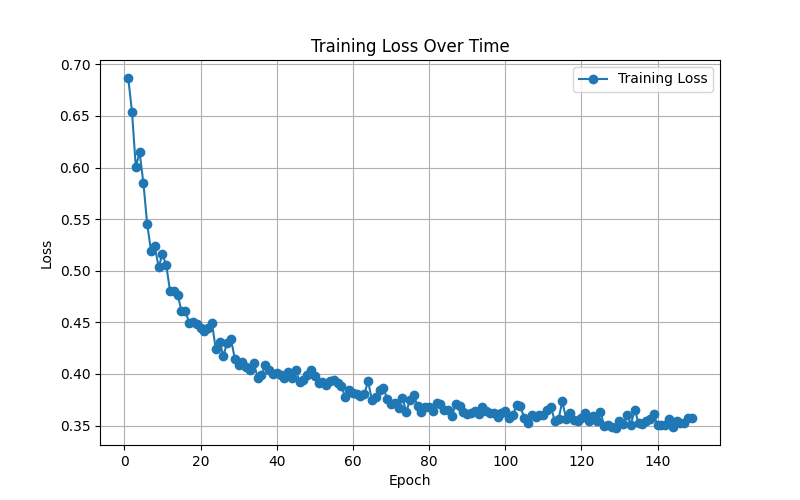
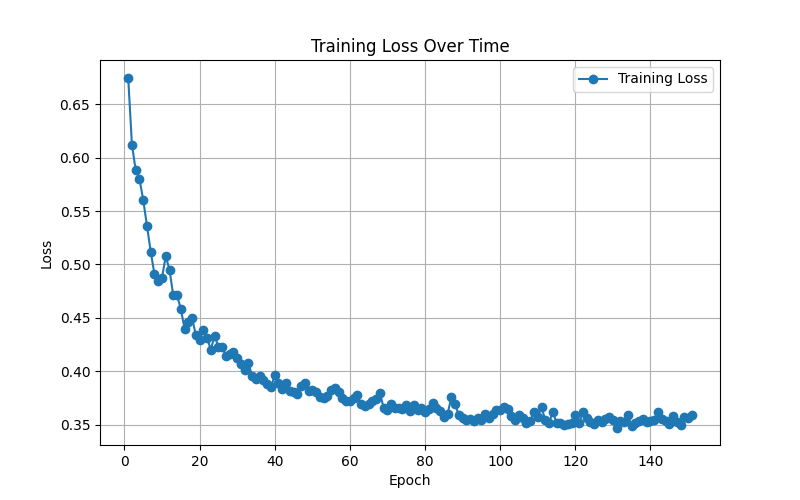
Update

diff --git a/test_model.py b/test_model.py
@@ -41,11 +41,13 @@ def evaluate_model(model, test_loader, device):
     # Compute Sensitivity (Recall) and Specificity
     sensitivity = TP / (TP + FN) if (TP + FN) > 0 else 0
     specificity = TN / (TN + FP) if (TN + FP) > 0 else 0
+    # Compute Accuracy
+    accuracy = (TP + TN) / (TP + TN + FP + FN) if (TP + TN + FP + FN) > 0 else 0
 
     print(f"Sensitivity (Recall): {sensitivity:.4f}")
     print(f"Specificity: {specificity:.4f}")
 
-    return sensitivity, specificity
+    return sensitivity, specificity, accuracy
 
 if __name__ == "__main__":
     device = torch.device("cuda" if torch.cuda.is_available() else "cpu")
@@ -61,6 +63,7 @@ if __name__ == "__main__":
     # Load best model checkpoint
     if os.path.exists(CHECKPOINT_PATH):
         model = load_model(CHECKPOINT_PATH, H_in, W_in, device)
-        sensitivity, specificity = evaluate_model(model, test_loader, device)
+        sensitivity, specificity, accuracy = evaluate_model(model, test_loader, device)
+        print("sensitivity, specificity, accuracy: ", sensitivity, specificity, accuracy)
     else:
         print(f"Checkpoint not found at {CHECKPOINT_PATH}")

diff --git a/preprocess.py b/preprocess.py
@@ -3,7 +3,7 @@ import numpy as np
 import os
 from sklearn.model_selection import train_test_split
 from scipy.signal import filtfilt, ellip
-from hr_analysis import classify_af
+
 
 def bandpass_filter(ecg_signal, fs, lowcut=0.5, highcut=50, order=10):
     """Apply an elliptical band-pass filter to the ECG signal."""
